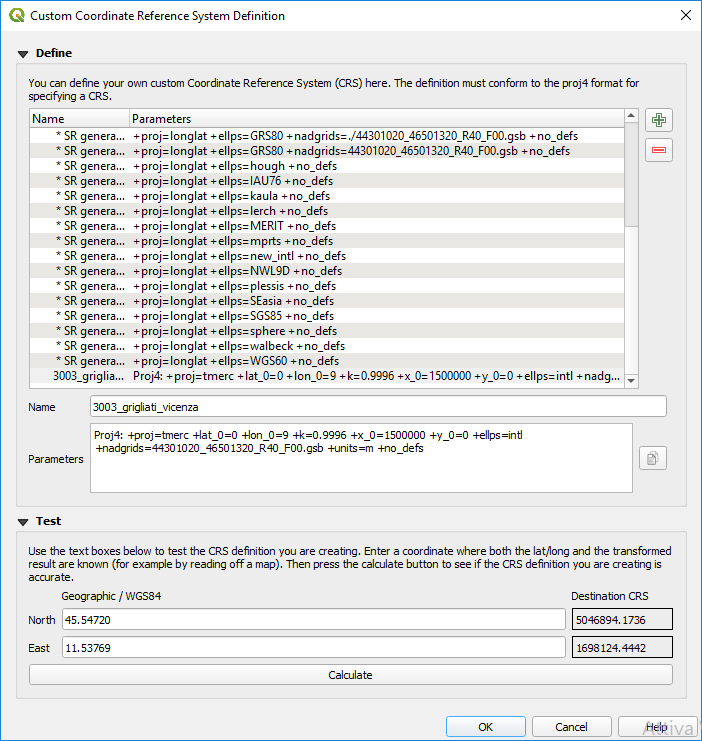
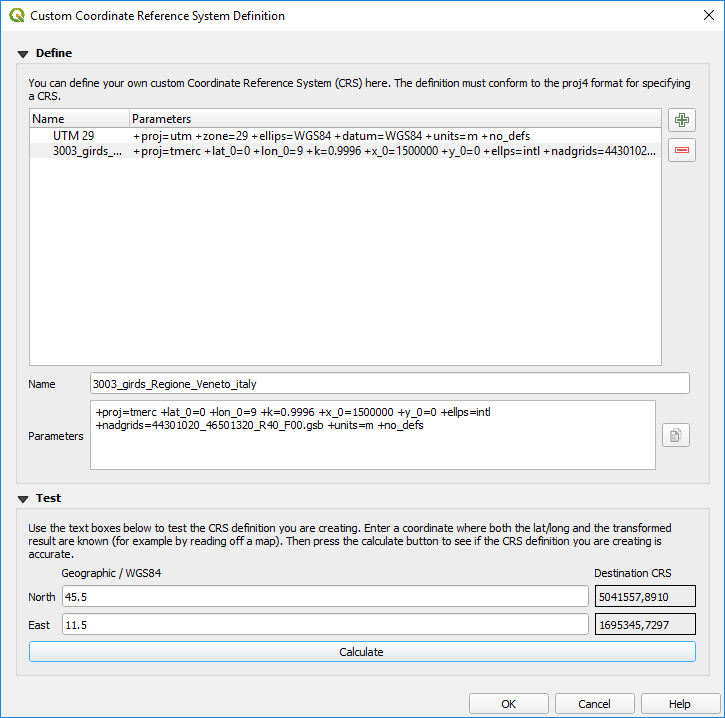
Update ntv2 screenshot and do some cosmetic

diff --git a/source/docs/user_manual/working_with_projections/working_with_projections.rst b/source/docs/user_manual/working_with_projections/working_with_projections.rst
@@ -253,8 +253,8 @@ Integrate an NTv2-transformation in QGIS
 To integrate an NTv2 transformation file in QGIS you need one more step: 
 
 #. Place the NTv2 file (.gsb) in the CRS/Proj folder that QGIS uses
-   (e.g. *C:\\OSGeo4W64\\share\\proj* for windows users)
-#. Add **nadgrids** (+nadgrids=nameofthefile.gsb) to the Proj definition
+   (e.g. :file:`C:\\OSGeo4W64\\share\\proj` for windows users)
+#. Add **nadgrids** (``+nadgrids=nameofthefile.gsb``) to the Proj definition
    in the :guilabel:`Parameters` field of the :guilabel:`Custom Coordinate
    Reference System Definition` (:menuselection:`Settings --> Custom Projections...`).
 
